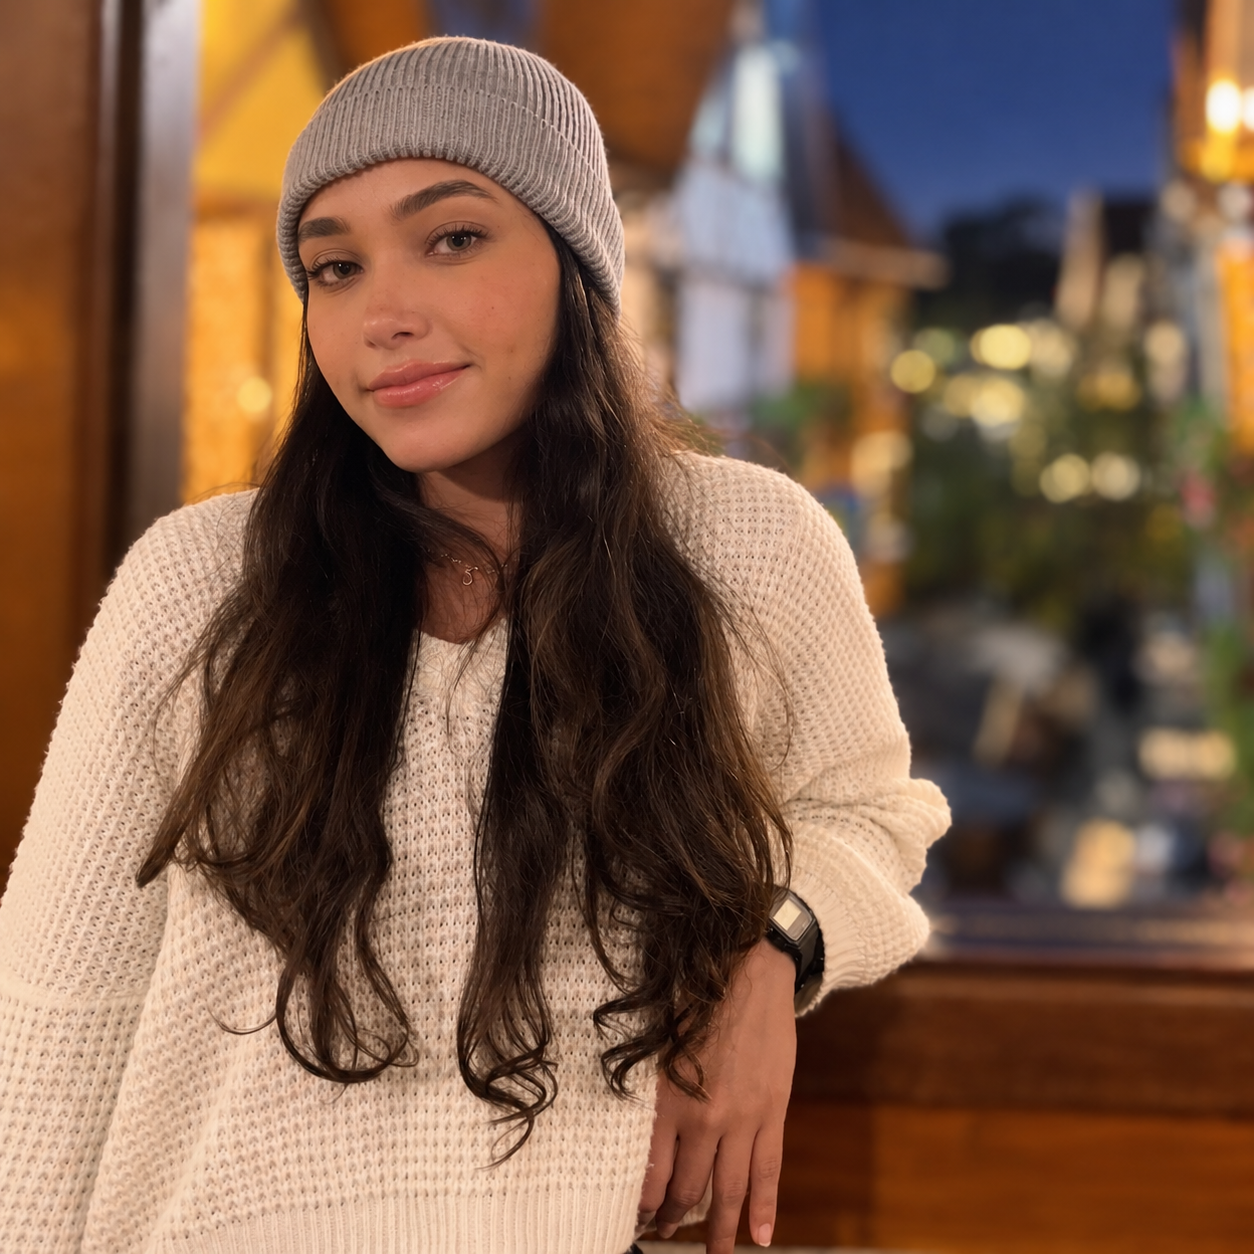
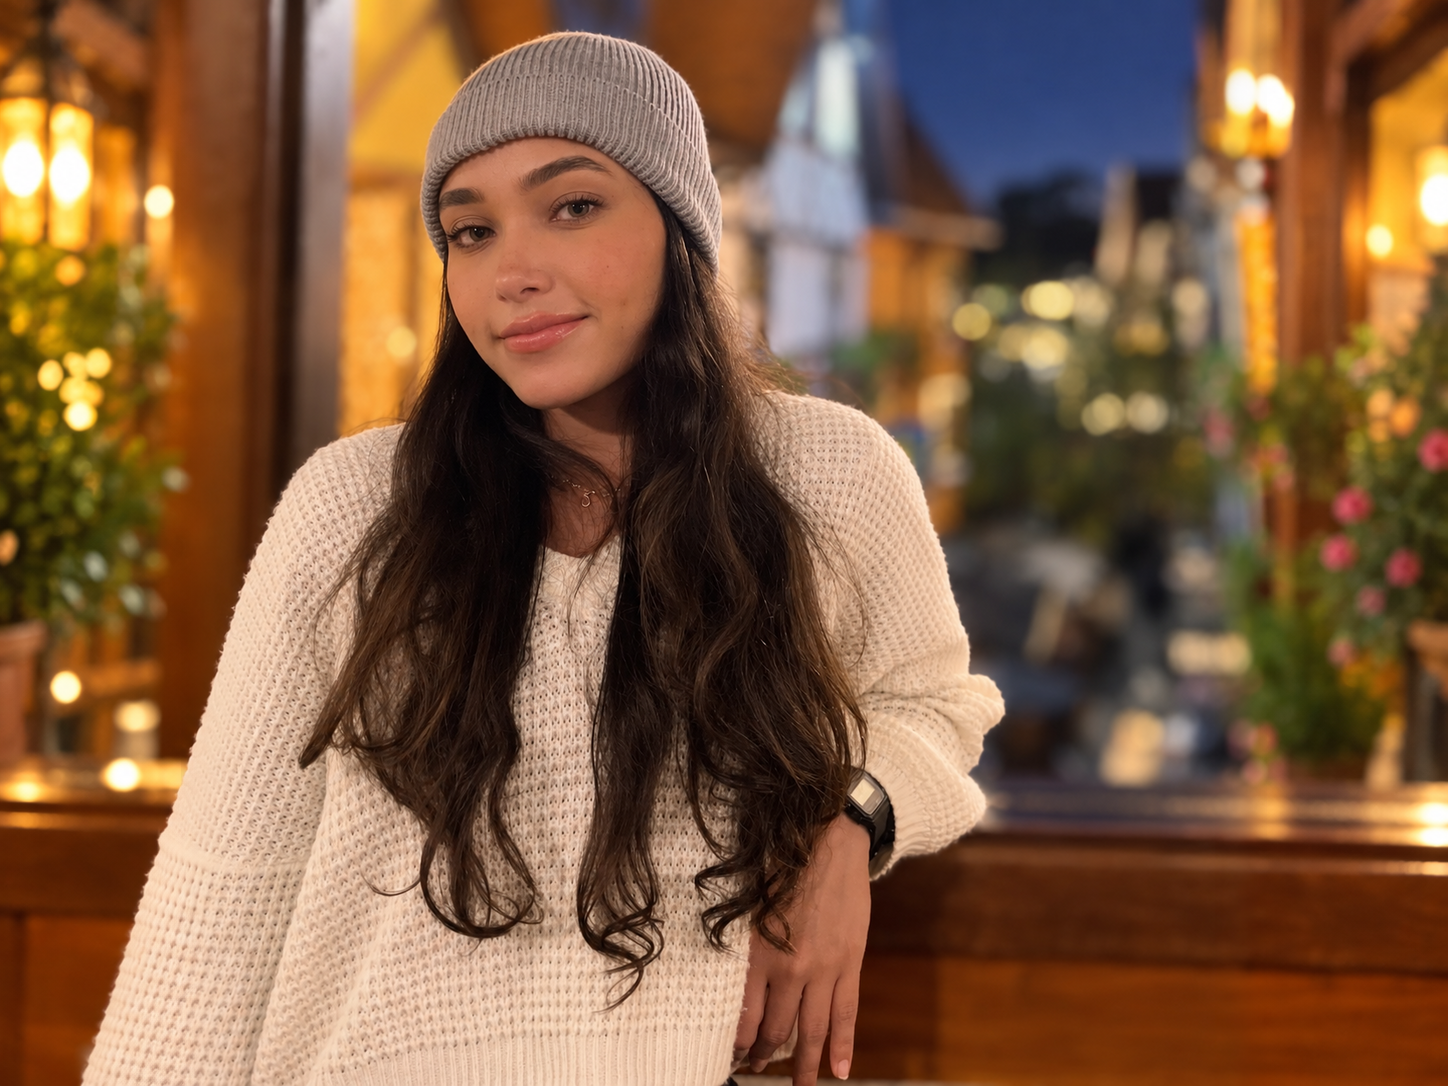
nem sei que isso

diff --git a/src/app/pages/sobre-nos/page.jsx b/src/app/pages/sobre-nos/page.jsx
@@ -16,7 +16,7 @@ import logo from '@/app/images/wolfy-logo.png';
 import ana from '@/app/images/equipe/Ana.jpeg';
 import livia from '@/app/images/equipe/Livia.png';
 import diego from '@/app/images/equipe/Diego.png';
-import miguel from '@/app/images/equipe/Miguel.jpeg';
+import miguel from '@/app/images/equipe/Miguel.png';
 import thaina from '@/app/images/equipe/Thaina.png';
 
 
